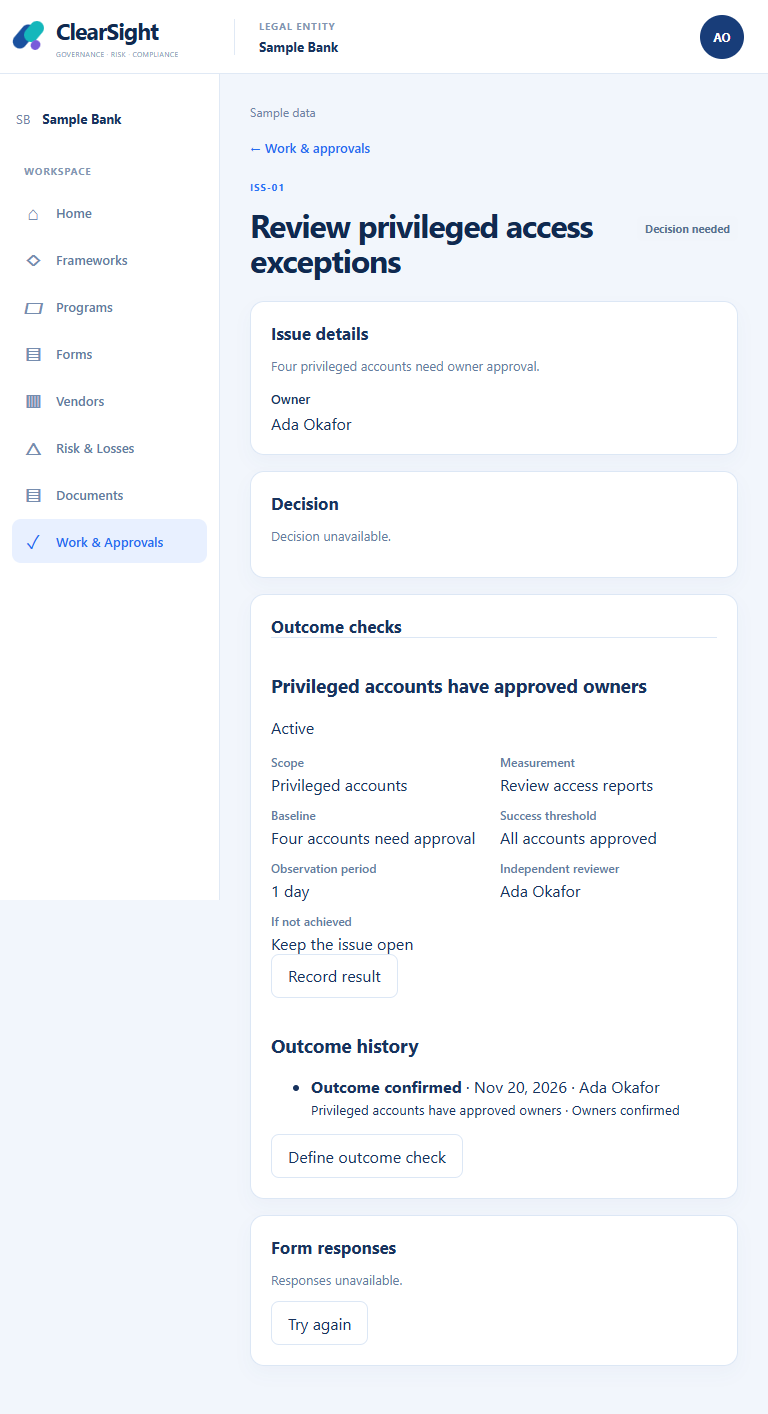
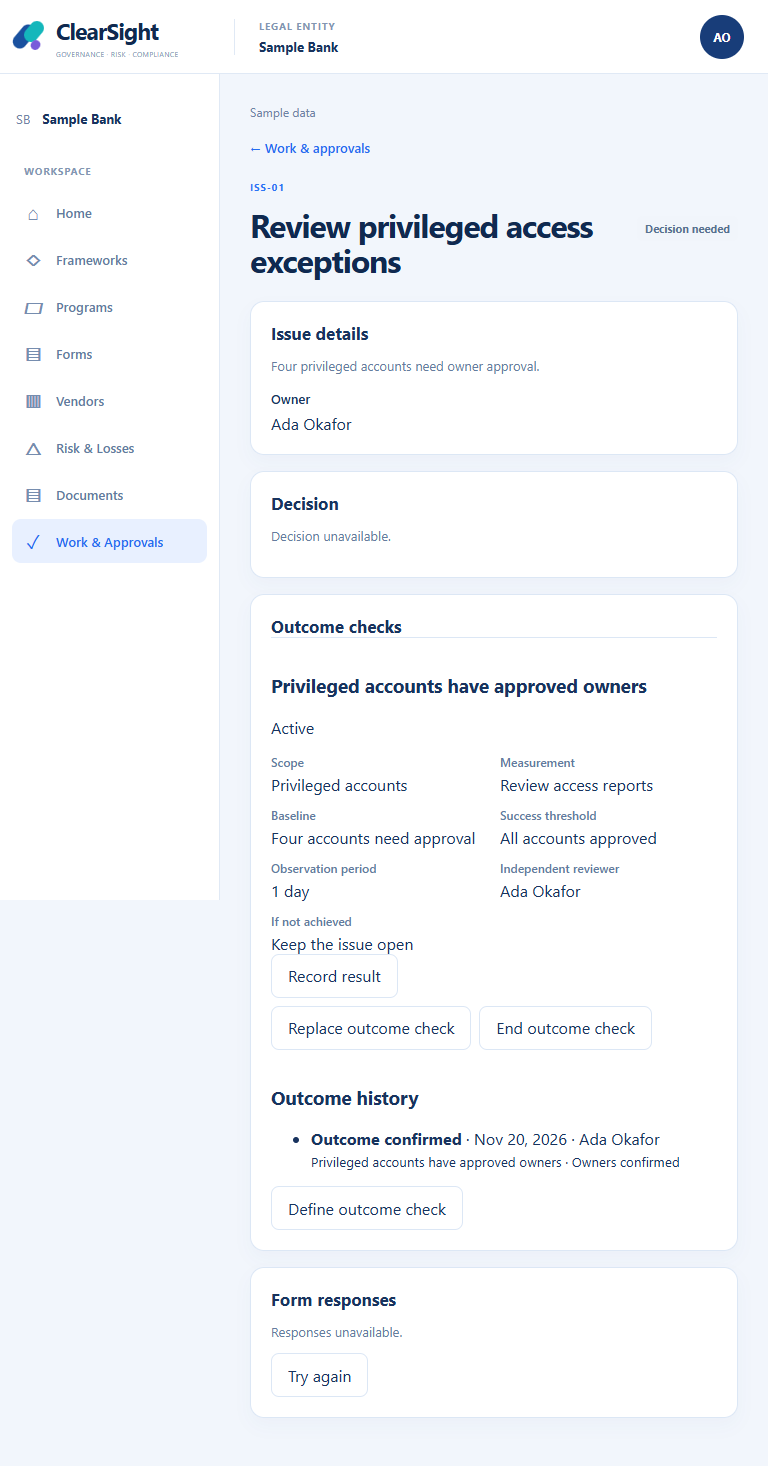
Support issue outcome check lifecycle

diff --git a/web/src/v210/MatterOutcomeLifecycle.tsx b/web/src/v210/MatterOutcomeLifecycle.tsx
@@ -1,0 +1,25 @@
+import { useEffect,useRef,useState,type FormEvent } from 'react';
+import { retireMatterOutcomeCheck,supersedeMatterOutcomeCheck } from '../matterOperationsApi';
+import { apiErrorKind } from '../http';
+import type { AuthorityPrincipal,EvidenceSource,Matter,MatterAction,VerificationContract } from '../types';
+const failureChoices=[['BLOCK_CLOSE','Keep the issue open'],['REOPEN','Reopen the issue'],['CREATE_MATTER','Create a follow-up issue'],['ESCALATE','Escalate']];
+function description(value:Record<string,unknown>|undefined,key:string){return typeof value?.[key]==='string'?String(value[key]):''}
+function sameJSON(a:unknown,b:unknown):boolean {if(a===b)return true;if(!a||!b||typeof a!=='object'||typeof b!=='object')return false;if(Array.isArray(a)||Array.isArray(b))return Array.isArray(a)&&Array.isArray(b)&&a.length===b.length&&a.every((v,i)=>sameJSON(v,b[i]));const x=a as Record<string,unknown>,y=b as Record<string,unknown>,keys=Object.keys(x);return keys.length===Object.keys(y).length&&keys.every(k=>Object.hasOwn(y,k)&&sameJSON(x[k],y[k]));}
+type Props={matter:Pick<Matter,'id'|'tenant_id'|'legal_entity_id'|'version'>;contract:VerificationContract;existingIDs:string[];canEnd:boolean;canReplace:boolean;reviewers:Pick<AuthorityPrincipal,'id'|'display_name'>[];actions:MatterAction[];sources:EvidenceSource[];onRefresh:()=>void;onAccessRevoked:()=>void};
+export function MatterOutcomeLifecycle({matter,contract,existingIDs,canEnd,canReplace,reviewers,actions,sources,onRefresh,onAccessRevoked}:Props){
+ const periodInDays=contract.observation_period_minutes % 1440 === 0;
+ const [mode,setMode]=useState<''|'end'|'replace'>(''),[reason,setReason]=useState(''),[outcome,setOutcome]=useState(contract.expected_outcome),[action,setAction]=useState(contract.action_id??''),[scope,setScope]=useState(description(contract.scope,'description')),[method,setMethod]=useState(description(contract.scope,'measurement_method')),[baseline,setBaseline]=useState(description(contract.baseline,'description')),[threshold,setThreshold]=useState(description(contract.threshold,'success_condition')),[source,setSource]=useState(contract.measurement_source_id??''),[minutes,setMinutes]=useState(String(periodInDays ? contract.observation_period_minutes / 1440 : contract.observation_period_minutes)),[reviewer,setReviewer]=useState(''),[failure,setFailure]=useState(contract.failure_response??''),[busy,setBusy]=useState(false),[unknown,setUnknown]=useState(false),[refreshFailed,setRefreshFailed]=useState(false);
+ const lock=useRef(false),mounted=useRef(true);useEffect(()=>{mounted.current=true;return()=>{mounted.current=false}},[]);
+ const activeSources=sources.filter(v=>v.status==='ACTIVE'&&Number.isSafeInteger(v.version)&&v.version>0&&v.tenant_id===matter.tenant_id&&v.legal_entity_id===matter.legal_entity_id);
+ const period=Number(minutes)*(periodInDays?1440:1), canSave=!!reason.trim()&&Number.isSafeInteger(contract.version)&&Number(contract.version)>0&&!!matter.legal_entity_id&&(mode==='end'?canEnd:mode==='replace'&&canReplace&&!!outcome.trim()&&reviewers.some(v=>v.id===reviewer)&&failureChoices.some(v=>v[0]===failure)&&Number.isSafeInteger(period)&&period>=0&&period<=525600&&(!action||actions.some(v=>v.id===action))&&(!source||activeSources.some(v=>v.id===source)));
+ async function submit(e:FormEvent){e.preventDefault();if(lock.current||busy||!canSave)return;lock.current=true;setBusy(true);const oldVersion=Number(contract.version);const input={actionID:action||undefined,expectedOutcome:outcome.trim(),scope:{...contract.scope,description:scope.trim(),measurement_method:method.trim()},baseline:{...contract.baseline,description:baseline.trim()},threshold:{...contract.threshold,success_condition:threshold.trim()},measurementSourceID:source||undefined,observationPeriodMinutes:period,reviewerCandidateID:reviewer,failureResponse:failure,rationale:reason.trim()};
+  try{const receipt=mode==='end'?await retireMatterOutcomeCheck(matter.id,contract.id,matter.version,reason.trim()):await supersedeMatterOutcomeCheck(matter.id,contract.id,matter.version,input);if(!mounted.current)return;const all=receipt.verification_contracts,prior=all?.filter(v=>v.id===contract.id)??[],added=all?.filter(v=>!existingIDs.includes(v.id))??[],replacement=added[0];
+   if(receipt.matter?.id!==matter.id||receipt.matter.tenant_id!==matter.tenant_id||receipt.matter.legal_entity_id!==matter.legal_entity_id||receipt.matter.version!==matter.version+1||prior.length!==1||prior[0]?.tenant_id!==matter.tenant_id||prior[0]?.matter_id!==matter.id||prior[0]?.status!=='RETIRED'||prior[0]?.version!==oldVersion+1||prior[0]?.expected_outcome!==contract.expected_outcome||(prior[0]?.action_id||'')!==(contract.action_id||'')||(prior[0]?.supersedes_contract_id||'')!==(contract.supersedes_contract_id||'')||(prior[0]?.measurement_source_id||'')!==(contract.measurement_source_id||'')||prior[0]?.observation_period_minutes!==contract.observation_period_minutes||(prior[0]?.authority_principal_id||'')!==(contract.authority_principal_id||'')||(prior[0]?.failure_response||'')!==(contract.failure_response||'')||!sameJSON(prior[0]?.baseline,contract.baseline)||!sameJSON(prior[0]?.scope,contract.scope)||!sameJSON(prior[0]?.threshold,contract.threshold)||(mode==='end'&&added.length!==0)||(mode==='replace'&&(added.length!==1||!replacement?.id||replacement.tenant_id!==matter.tenant_id||replacement.matter_id!==matter.id||replacement.supersedes_contract_id!==contract.id||replacement.status!=='ACTIVE'||replacement.version!==1||replacement.expected_outcome!==input.expectedOutcome||(replacement.action_id||'')!==(input.actionID||'')||(replacement.measurement_source_id||'')!==(input.measurementSourceID||'')||replacement.observation_period_minutes!==period||replacement.authority_principal_id!==reviewer||replacement.failure_response!==failure||!sameJSON(replacement.baseline,input.baseline)||!sameJSON(replacement.scope,input.scope)||!sameJSON(replacement.threshold,input.threshold))))throw new Error('Unconfirmed');
+   try{onRefresh();setMode('')}catch{setRefreshFailed(true)}
+  }catch(error){if(!mounted.current)return;if(['unauthorized','forbidden','not_found'].includes(apiErrorKind(error)))onAccessRevoked();else setUnknown(true)}finally{if(mounted.current)setBusy(false)}
+ }
+ if(refreshFailed)return <p role="alert">Outcome check saved. Refresh the issue to see it.</p>;
+ if(unknown)return <><p role="alert">Outcome check status unknown. Review the issue before trying again.</p><button type="button" onClick={onRefresh}>Review issue</button></>;
+ if(!mode)return <div className="v-outcome-lifecycle">{canReplace&&reviewers.length>0&&<button type="button" onClick={()=>setMode('replace')}>Replace outcome check</button>}{canEnd&&<button type="button" onClick={()=>setMode('end')}>End outcome check</button>}</div>;
+ return <form className="v-intake" onSubmit={(e)=>void submit(e)}><h4>{mode==='end'?'End outcome check':'Replace outcome check'}</h4>{mode==='end'?<p>Ending this check removes it from the issue’s outstanding outcome checks.</p>:<><p>The current check ends and a new check takes its place.</p><label>Action<select value={action} onChange={e=>setAction(e.target.value)}><option value="">None</option>{action&&!actions.some(v=>v.id===action)&&<option value={action} disabled>Action unavailable</option>}{actions.map(v=><option key={v.id} value={v.id}>{v.title}</option>)}</select></label>{action&&!actions.some(v=>v.id===action)&&<p>Choose an available action or None.</p>}<label>Expected outcome<input required value={outcome} onChange={e=>setOutcome(e.target.value)}/></label><label>Scope covered<input value={scope} onChange={e=>setScope(e.target.value)}/></label><label>How the outcome will be measured<textarea value={method} onChange={e=>setMethod(e.target.value)}/></label><label>Current baseline<input value={baseline} onChange={e=>setBaseline(e.target.value)}/></label><label>Success threshold<input value={threshold} onChange={e=>setThreshold(e.target.value)}/></label><label>Measurement source<select value={source} onChange={e=>setSource(e.target.value)}><option value="">Manual</option>{source&&!activeSources.some(v=>v.id===source)&&<option value={source} disabled>Source unavailable</option>}{activeSources.map(v=><option key={v.id} value={v.id}>{v.name}</option>)}</select></label>{source&&!activeSources.some(v=>v.id===source)&&<p>Choose an available source or manual measurement.</p>}<label>Observation period ({periodInDays?"days":"minutes"})<input type="number" min="0" max={periodInDays?365:525600} step="1" required value={minutes} onChange={e=>setMinutes(e.target.value)}/></label><label>Independent reviewer<select required value={reviewer} onChange={e=>setReviewer(e.target.value)}><option value="">Select reviewer</option>{reviewers.map(v=><option key={v.id} value={v.id}>{v.display_name}</option>)}</select></label><label>If the outcome is not achieved<select required value={failure} onChange={e=>setFailure(e.target.value)}><option value="">Select response</option>{failureChoices.map(([id,label])=><option key={id} value={id}>{label}</option>)}</select></label></>}<label>{mode==='end'?'Reason for ending':'Reason for replacing'}<textarea required value={reason} onChange={e=>setReason(e.target.value)}/></label><div className="v-intake-actions"><button type="button" disabled={busy} onClick={()=>setMode('')}>Cancel</button><button className="v-primary" disabled={busy||!canSave}>{busy?'Saving…':mode==='end'?'Confirm end':'Confirm replacement'}</button></div></form>;
+}

diff --git a/web/src/v210/MatterOutcomes.tsx b/web/src/v210/MatterOutcomes.tsx
@@ -3,6 +3,7 @@ import { loadEvidenceSources } from "../api";
 import { defineMatterOutcomeCheck, loadMatterOperations, type MatterOperations } from "../matterOperationsApi";
 import { apiErrorKind } from "../http";
 import type { EvidenceSource, MatterAggregate, VerificationContract } from "../types";
+import { MatterOutcomeLifecycle } from "./MatterOutcomeLifecycle";
 import { MatterOutcomeResult } from "./MatterOutcomeResult";
 import "./matter-outcomes.css";
 
@@ -34,7 +35,7 @@ export function MatterOutcomes({aggregate,onRefresh,onAccessRevoked}:{aggregate:
  function reviewIssue() { try { onRefresh(); } catch { setError("Issue unavailable. Try again."); } }
  const contracts=aggregate.verification_contracts;const results=aggregate.verification_results;
  if(aggregate.outcome_data_complete === false || !Array.isArray(contracts) || !Array.isArray(results) || contracts.some((value)=>!value?.id || !value.expected_outcome) || new Set(contracts.map((value)=>value.id)).size!==contracts.length || results.some((value)=>!value?.id || !contracts.some((contract)=>contract.id===value.contract_id)) || new Set(results.map((value)=>value.id)).size!==results.length) return <section className="v-panel v-matter-outcomes"><h2>Outcome checks</h2><p role="alert">Outcome checks unavailable.</p></section>;
- return <section className="v-panel v-matter-outcomes"><h2>Outcome checks</h2>{contracts.length===0?<p>No outcome checks recorded.</p>:contracts.map((contract)=><article key={contract.id}><h3>{contract.expected_outcome}</h3><p>{contract.status==="ACTIVE"?"Active":contract.status==="RETIRED"?"Ended":"Status unavailable"}</p><dl><div><dt>Scope</dt><dd>{text(contract.scope,"description","population")}</dd></div><div><dt>Measurement</dt><dd>{typeof contract.scope?.measurement_method === "string" && contract.scope.measurement_method.trim() ? contract.scope.measurement_method : "Not recorded"}</dd></div><div><dt>Baseline</dt><dd>{text(contract.baseline,"description","current_state","summary")}</dd></div><div><dt>Success threshold</dt><dd>{text(contract.threshold,"success_condition","description")}</dd></div><div><dt>Observation period</dt><dd>{period(contract.observation_period_minutes)}</dd></div><div><dt>Independent reviewer</dt><dd>{reviewerName("OUTCOME_CHECK",contract.id)}</dd></div>{contract.measurement_source_id && <div><dt>Measurement source</dt><dd>{sources.find((item)=>item.id===contract.measurement_source_id)?.name || "Source name unavailable"}</dd></div>}<div><dt>If not achieved</dt><dd>{failures.find((item)=>item.id===contract.failure_response)?.label || "Not recorded"}</dd></div></dl>{contract.status==="ACTIVE" && aggregate.scope?.principal_id && operations?.authority_available && operations.operations?.some((op)=>op.command==="matter.outcome.record" && op.subresource_id===contract.id && op.can_act===true) && <MatterOutcomeResult key={`${matter.tenant_id}:${matter.legal_entity_id}:${matter.id}:${aggregate.scope.principal_id}:${matter.version}:${contract.id}`} matter={matter} contract={contract} principalID={aggregate.scope.principal_id} existingResultIDs={results.map((entry)=>entry.id)} onRefresh={onRefresh} onAccessRevoked={()=>onAccessRevoked?.()} />}</article>)}
+ return <section className="v-panel v-matter-outcomes"><h2>Outcome checks</h2>{contracts.length===0?<p>No outcome checks recorded.</p>:contracts.map((contract)=><article key={contract.id}><h3>{contract.expected_outcome}</h3><p>{contract.status==="ACTIVE"?"Active":contract.status==="RETIRED"?"Ended":"Status unavailable"}</p><dl><div><dt>Scope</dt><dd>{text(contract.scope,"description","population")}</dd></div><div><dt>Measurement</dt><dd>{typeof contract.scope?.measurement_method === "string" && contract.scope.measurement_method.trim() ? contract.scope.measurement_method : "Not recorded"}</dd></div><div><dt>Baseline</dt><dd>{text(contract.baseline,"description","current_state","summary")}</dd></div><div><dt>Success threshold</dt><dd>{text(contract.threshold,"success_condition","description")}</dd></div><div><dt>Observation period</dt><dd>{period(contract.observation_period_minutes)}</dd></div><div><dt>Independent reviewer</dt><dd>{reviewerName("OUTCOME_CHECK",contract.id)}</dd></div>{contract.measurement_source_id && <div><dt>Measurement source</dt><dd>{sources.find((item)=>item.id===contract.measurement_source_id)?.name || "Source name unavailable"}</dd></div>}<div><dt>If not achieved</dt><dd>{failures.find((item)=>item.id===contract.failure_response)?.label || "Not recorded"}</dd></div></dl>{contract.status==="ACTIVE" && aggregate.scope?.principal_id && operations?.authority_available && operations.operations?.some((op)=>op.command==="matter.outcome.record" && op.subresource_id===contract.id && op.can_act===true) && <MatterOutcomeResult key={`${matter.tenant_id}:${matter.legal_entity_id}:${matter.id}:${aggregate.scope.principal_id}:${matter.version}:${contract.id}`} matter={matter} contract={contract} principalID={aggregate.scope.principal_id} existingResultIDs={results.map((entry)=>entry.id)} onRefresh={onRefresh} onAccessRevoked={()=>onAccessRevoked?.()} />}{contract.status==="ACTIVE" && Number.isSafeInteger(contract.version) && Number(contract.version)>0 && aggregate.scope?.principal_id && operations?.authority_available && <MatterOutcomeLifecycle key={`lifecycle:${matter.tenant_id}:${matter.legal_entity_id}:${matter.id}:${aggregate.scope.principal_id}:${matter.version}:${contract.id}`} matter={matter} contract={contract} existingIDs={contracts.map((entry)=>entry.id)} canEnd={operations.operations?.some((op)=>op.command==="matter.outcome.retire" && op.subresource_id===contract.id && op.can_act===true) ?? false} canReplace={operations.operations?.some((op)=>op.command==="matter.outcome.supersede" && op.subresource_id===contract.id && op.can_act===true) ?? false} reviewers={operations.operations?.find((op)=>op.command==="matter.outcome.supersede" && op.subresource_id===contract.id && op.can_act===true)?.candidates?.filter((entry)=>entry.id && entry.display_name) ?? []} actions={aggregate.actions??[]} sources={sources} onRefresh={onRefresh} onAccessRevoked={()=>onAccessRevoked?.()} />}</article>)}
  {results.length>0 && <section><h3>Outcome history</h3><ul>{results.slice(0,limit).map((value)=><li key={value.id}><strong>{result(value.result)}</strong> · {recorded(value.observed_at)} · {reviewerName("OUTCOME_RESULT",value.id)}<small>{contracts.find((contract)=>contract.id===value.contract_id)?.expected_outcome}{value.rationale ? ` · ${value.rationale}` : ""}</small></li>)}</ul>{results.length>limit && <button type="button" onClick={()=>setLimit((value)=>value+20)}>Show more results</button>}</section>}
  {refreshFailed ? <p role="alert">Outcome check saved. Refresh the issue to see it.</p> : uncertain ? <><p role="alert">Outcome check status unknown. Review the issue before trying again.</p><button type="button" disabled={busy} onClick={reviewIssue}>Review issue</button>{error && <p role="alert">{error}</p>}</> : !open && candidates.length>0 ? <button type="button" onClick={()=>setOpen(true)}>Define outcome check</button> : null}
  {open && !uncertain && !refreshFailed && <form className="v-intake" onSubmit={(event)=>void submit(event)}><h3>Define outcome check</h3><label>Action<select value={action} onChange={(e)=>setAction(e.target.value)}><option value="">None</option>{(aggregate.actions??[]).map((item)=><option key={item.id} value={item.id}>{item.title}</option>)}</select></label><label>Expected outcome<input required value={expected} onChange={(e)=>setExpected(e.target.value)}/></label><label>Scope covered<input value={scope} onChange={(e)=>setScope(e.target.value)}/></label><label>How the outcome will be measured<textarea value={method} onChange={(e)=>setMethod(e.target.value)}/></label><label>Current baseline<input value={baseline} onChange={(e)=>setBaseline(e.target.value)}/></label><label>Success threshold<input value={threshold} onChange={(e)=>setThreshold(e.target.value)}/></label><label>Measurement source<select value={source} onChange={(e)=>setSource(e.target.value)}><option value="">Manual</option>{activeSources.map((item)=><option key={item.id} value={item.id}>{item.name}</option>)}</select></label>{sourceError && <p>Measurement sources unavailable. Manual measurement remains available.</p>}<label>Observation period (days)<input type="number" min="0" max="365" step="1" required value={days} onChange={(e)=>setDays(e.target.value)}/></label><label>Independent reviewer<select required value={reviewer} onChange={(e)=>setReviewer(e.target.value)}><option value="">Select reviewer</option>{candidates.map((item)=><option key={item.id} value={item.id}>{item.display_name}</option>)}</select></label><label>If the outcome is not achieved<select required value={failure} onChange={(e)=>setFailure(e.target.value)}><option value="">Select response</option>{failures.map((item)=><option key={item.id} value={item.id}>{item.label}</option>)}</select></label>{error && <p role="alert">{error}</p>}<div className="v-intake-actions"><button type="button" disabled={busy} onClick={()=>setOpen(false)}>Cancel</button><button className="v-primary" disabled={busy}>{busy?"Saving…":"Save outcome check"}</button></div></form>}

diff --git a/web/src/v210/MatterOutcomeLifecycle.test.tsx b/web/src/v210/MatterOutcomeLifecycle.test.tsx
@@ -1,0 +1,19 @@
+import { fireEvent,render,screen,waitFor } from '@testing-library/react';
+import { expect,it,vi } from 'vitest';
+import { ApiError } from '../http';
+import { MatterOutcomeLifecycle } from './MatterOutcomeLifecycle';
+const api=vi.hoisted(()=>({retireMatterOutcomeCheck:vi.fn(),supersedeMatterOutcomeCheck:vi.fn()}));vi.mock('../matterOperationsApi',()=>api);
+const matter={id:'m1',tenant_id:'bank',legal_entity_id:'entity',version:4};const contract={id:'c1',tenant_id:'bank',matter_id:'m1',expected_outcome:'Restore service',status:'ACTIVE',version:2,observation_period_minutes:1440,failure_response:'BLOCK_CLOSE',baseline:{description:'Outage'},scope:{description:'Customers',measurement_method:'Review report'},threshold:{success_condition:'All available'}};
+const props={matter,contract,existingIDs:['c1'],canEnd:true,reviewers:[{id:'reviewer',display_name:'Ada Okafor'}],canReplace:true,actions:[],sources:[],onRefresh:vi.fn(),onAccessRevoked:vi.fn()};
+it('ends the exact authorized check after a reason and confirms its version',async()=>{api.retireMatterOutcomeCheck.mockResolvedValue({matter:{...matter,version:5},verification_contracts:[{...contract,status:'RETIRED',version:3}]});const refresh=vi.fn();render(<MatterOutcomeLifecycle {...props} onRefresh={refresh}/>);fireEvent.click(screen.getByRole('button',{name:'End outcome check'}));fireEvent.change(screen.getByLabelText('Reason for ending'),{target:{value:'Action cancelled'}});fireEvent.click(screen.getByRole('button',{name:'Confirm end'}));await waitFor(()=>expect(refresh).toHaveBeenCalled());expect(api.retireMatterOutcomeCheck).toHaveBeenCalledWith('m1','c1',4,'Action cancelled');});
+it('leaves an unmatched end receipt unknown and blocks another submission',async()=>{api.retireMatterOutcomeCheck.mockResolvedValue({matter:{...matter,version:5},verification_contracts:[{...contract,status:'ACTIVE',version:3}]});render(<MatterOutcomeLifecycle {...props}/>);fireEvent.click(screen.getByRole('button',{name:'End outcome check'}));fireEvent.change(screen.getByLabelText('Reason for ending'),{target:{value:'Action cancelled'}});fireEvent.click(screen.getByRole('button',{name:'Confirm end'}));expect(await screen.findByText(/Outcome check status unknown/)).toBeTruthy();expect(screen.queryByRole('button',{name:'Confirm end'})).toBeNull();});
+
+it('replaces a check with the selected eligible reviewer and preserves unedited terms',async()=>{const next={...contract,id:'c2',supersedes_contract_id:'c1',version:1,expected_outcome:'Service stable',authority_principal_id:'reviewer'};api.supersedeMatterOutcomeCheck.mockResolvedValue({matter:{...matter,version:5},verification_contracts:[{...contract,status:'RETIRED',version:3},next]});const refresh=vi.fn();render(<MatterOutcomeLifecycle {...props} onRefresh={refresh}/>);fireEvent.click(screen.getByRole('button',{name:'Replace outcome check'}));fireEvent.change(screen.getByLabelText('Expected outcome'),{target:{value:'Service stable'}});fireEvent.change(screen.getByLabelText('Independent reviewer'),{target:{value:'reviewer'}});fireEvent.change(screen.getByLabelText('Reason for replacing'),{target:{value:'Scope changed'}});fireEvent.click(screen.getByRole('button',{name:'Confirm replacement'}));await waitFor(()=>expect(refresh).toHaveBeenCalled());expect(api.supersedeMatterOutcomeCheck).toHaveBeenCalledWith('m1','c1',4,expect.objectContaining({expectedOutcome:'Service stable',reviewerCandidateID:'reviewer',rationale:'Scope changed',baseline:{description:'Outage'}}));});
+it('does not confirm a replacement without the expected lineage',async()=>{api.supersedeMatterOutcomeCheck.mockResolvedValue({matter:{...matter,version:5},verification_contracts:[{...contract,status:'RETIRED',version:3},{...contract,id:'c2',version:1,supersedes_contract_id:'different',authority_principal_id:'reviewer'}]});const refresh=vi.fn();render(<MatterOutcomeLifecycle {...props} onRefresh={refresh}/>);fireEvent.click(screen.getByRole('button',{name:'Replace outcome check'}));fireEvent.change(screen.getByLabelText('Independent reviewer'),{target:{value:'reviewer'}});fireEvent.change(screen.getByLabelText('Reason for replacing'),{target:{value:'Scope changed'}});fireEvent.click(screen.getByRole('button',{name:'Confirm replacement'}));expect(await screen.findByText(/Outcome check status unknown/)).toBeTruthy();expect(refresh).not.toHaveBeenCalled();});
+
+it('clears the issue when lifecycle authority is revoked',async()=>{api.retireMatterOutcomeCheck.mockRejectedValue(new ApiError(403,'Denied'));const revoked=vi.fn();render(<MatterOutcomeLifecycle {...props} onAccessRevoked={revoked}/>);fireEvent.click(screen.getByRole('button',{name:'End outcome check'}));fireEvent.change(screen.getByLabelText('Reason for ending'),{target:{value:'Action cancelled'}});fireEvent.click(screen.getByRole('button',{name:'Confirm end'}));await waitFor(()=>expect(revoked).toHaveBeenCalled());});
+it('cannot replace with an unavailable measurement source',()=>{render(<MatterOutcomeLifecycle {...props} contract={{...contract,measurement_source_id:'lost-source'}}/>);fireEvent.click(screen.getByRole('button',{name:'Replace outcome check'}));fireEvent.change(screen.getByLabelText('Independent reviewer'),{target:{value:'reviewer'}});fireEvent.change(screen.getByLabelText('Reason for replacing'),{target:{value:'Scope changed'}});expect(screen.getByText('Choose an available source or manual measurement.')).toBeTruthy();expect((screen.getByRole('button',{name:'Confirm replacement'}) as HTMLButtonElement).disabled).toBe(true);});
+
+it('does not confirm ending if the retired check no longer preserves its terms',async()=>{api.retireMatterOutcomeCheck.mockResolvedValue({matter:{...matter,version:5},verification_contracts:[{...contract,expected_outcome:'Altered outcome',status:'RETIRED',version:3}]});const refresh=vi.fn();render(<MatterOutcomeLifecycle {...props} onRefresh={refresh}/>);fireEvent.click(screen.getByRole('button',{name:'End outcome check'}));fireEvent.change(screen.getByLabelText('Reason for ending'),{target:{value:'Action cancelled'}});fireEvent.click(screen.getByRole('button',{name:'Confirm end'}));expect(await screen.findByText(/Outcome check status unknown/)).toBeTruthy();expect(refresh).not.toHaveBeenCalled();});
+
+it('requires an explicit action choice when the previous action is unavailable',()=>{render(<MatterOutcomeLifecycle {...props} contract={{...contract,action_id:'lost-action'}}/>);fireEvent.click(screen.getByRole('button',{name:'Replace outcome check'}));fireEvent.change(screen.getByLabelText('Independent reviewer'),{target:{value:'reviewer'}});fireEvent.change(screen.getByLabelText('Reason for replacing'),{target:{value:'Scope changed'}});expect(screen.getByText('Choose an available action or None.')).toBeTruthy();expect((screen.getByRole('button',{name:'Confirm replacement'}) as HTMLButtonElement).disabled).toBe(true);});

diff --git a/web/src/v210/MatterOutcomes.test.tsx b/web/src/v210/MatterOutcomes.test.tsx
@@ -4,7 +4,7 @@ import { ApiError } from "../http";
 import { MatterOutcomes } from "./MatterOutcomes";
 import type { MatterAggregate } from "../types";
 const api=vi.hoisted(()=>({loadEvidenceSources:vi.fn(),loadMatter:vi.fn()})); const ops=vi.hoisted(()=>({loadMatterOperations:vi.fn(),defineMatterOutcomeCheck:vi.fn(),recordMatterOutcomeResult:vi.fn()}));vi.mock("../api",()=>api);vi.mock("../matterOperationsApi",()=>ops);
-const aggregate={scope:{tenant_id:"bank",legal_entity_id:"entity",principal_id:"actor",record_tenant_id:"bank",record_legal_entity_id:"entity"},matter:{id:"m1",tenant_id:"bank",legal_entity_id:"entity",version:4,title:"Restore service"},actions:[{id:"a1",title:"Restore posting"}],verification_contracts:[{id:"c1",expected_outcome:"Posting remains available",authority_principal_id:"old-reviewer",status:"ACTIVE",observation_period_minutes:1440,failure_response:"BLOCK_CLOSE",scope:{description:"Retail accounts",measurement_method:"Review daily reports"},baseline:{description:"Posting unavailable"},threshold:{success_condition:"99.9% successful"}}],verification_results:[{id:"r1",contract_id:"c1",result:"PASS",reviewer_principal_id:"old-reviewer",observed_at:"2026-11-20T10:00:00Z",rationale:"Confirmed"}]} as unknown as MatterAggregate;
+const aggregate={scope:{tenant_id:"bank",legal_entity_id:"entity",principal_id:"actor",record_tenant_id:"bank",record_legal_entity_id:"entity"},matter:{id:"m1",tenant_id:"bank",legal_entity_id:"entity",version:4,title:"Restore service"},actions:[{id:"a1",title:"Restore posting"}],verification_contracts:[{id:"c1",expected_outcome:"Posting remains available",authority_principal_id:"old-reviewer",status:"ACTIVE",version:1,observation_period_minutes:1440,failure_response:"BLOCK_CLOSE",scope:{description:"Retail accounts",measurement_method:"Review daily reports"},baseline:{description:"Posting unavailable"},threshold:{success_condition:"99.9% successful"}}],verification_results:[{id:"r1",contract_id:"c1",result:"PASS",reviewer_principal_id:"old-reviewer",observed_at:"2026-11-20T10:00:00Z",rationale:"Confirmed"}]} as unknown as MatterAggregate;
 const route={matter_id:"m1",matter_version:4,authority_available:true,operations:[{command:"matter.outcome.define",can_act:true,candidates:[{id:"reviewer",display_name:"Ada Okafor"}]}],responsible_parties:[{scope:"OUTCOME_CHECK",subresource_id:"c1",display_name:"Original reviewer"},{scope:"OUTCOME_RESULT",subresource_id:"r1",display_name:"Original reviewer"}]};
 beforeEach(()=>{vi.resetAllMocks();ops.loadMatterOperations.mockResolvedValue(route);api.loadEvidenceSources.mockResolvedValue([{id:"s1",tenant_id:"bank",legal_entity_id:"entity",name:"Daily report",status:"ACTIVE",version:2},{id:"other",tenant_id:"bank",legal_entity_id:"different",name:"Other report",status:"ACTIVE",version:1}]);});
 it("shows recorded outcome terms and the historical reviewer without exposing IDs",async()=>{render(<MatterOutcomes aggregate={aggregate} onRefresh={vi.fn()}/>);expect(await screen.findByText("Original reviewer")).toBeTruthy(); expect(screen.getByText("Retail accounts")).toBeTruthy();expect(screen.getByText("Review daily reports")).toBeTruthy(); expect(screen.getByText("99.9% successful")).toBeTruthy();expect(screen.getByText(/Outcome confirmed/)).toBeTruthy(); expect(screen.queryByText("old-reviewer")).toBeNull();});
@@ -22,3 +22,5 @@ it("clears the issue when its operation read loses access",async()=>{ops.loadMat
 it("offers result recording only for the authorized current outcome check",async()=>{ops.loadMatterOperations.mockResolvedValue({...route,operations:[...route.operations,{command:'matter.outcome.record',subresource_id:'c1',can_act:true},{command:'matter.outcome.record',subresource_id:'other',can_act:true}]});render(<MatterOutcomes aggregate={aggregate} onRefresh={vi.fn()}/>);expect(await screen.findByRole('button',{name:'Record result'})).toBeTruthy();expect(screen.getAllByRole('button',{name:'Record result'})).toHaveLength(1);});
 
 it("discards a result receipt after the issue version changes",async()=>{let resolve!:(value:unknown)=>void;ops.recordMatterOutcomeResult.mockImplementation(()=>new Promise((done)=>{resolve=done}));ops.loadMatterOperations.mockResolvedValue({...route,operations:[{command:"matter.outcome.record",subresource_id:"c1",can_act:true}]});const refresh=vi.fn();const view=render(<MatterOutcomes aggregate={aggregate} onRefresh={refresh}/>);fireEvent.click(await screen.findByRole("button",{name:"Record result"}));fireEvent.change(screen.getByLabelText("Outcome"),{target:{value:"PASS"}});fireEvent.change(screen.getByLabelText("Review notes"),{target:{value:"Reviewed"}});fireEvent.click(screen.getByRole("button",{name:"Save result"}));view.rerender(<MatterOutcomes aggregate={{...aggregate,matter:{...aggregate.matter,version:5}}} onRefresh={refresh}/>);resolve({matter:{...aggregate.matter,version:5},verification_results:[{id:"r2",tenant_id:"bank",matter_id:"m1",contract_id:"c1",result:"PASS",rationale:"Reviewed",reviewer_principal_id:"actor"}]});await Promise.resolve();expect(refresh).not.toHaveBeenCalled();});
+
+it('offers ending and replacement only for matching authorized operations',async()=>{ops.loadMatterOperations.mockResolvedValue({...route,operations:[{command:'matter.outcome.retire',subresource_id:'c1',can_act:true},{command:'matter.outcome.supersede',subresource_id:'c1',can_act:true,candidates:[{id:'reviewer',display_name:'Ada Okafor'}]},{command:'matter.outcome.retire',subresource_id:'other',can_act:true}]});render(<MatterOutcomes aggregate={aggregate} onRefresh={vi.fn()}/>);expect(await screen.findByRole('button',{name:'End outcome check'})).toBeTruthy();expect(screen.getByRole('button',{name:'Replace outcome check'})).toBeTruthy();expect(screen.getAllByRole('button',{name:'End outcome check'})).toHaveLength(1);});

diff --git a/web/src/v210/matter-outcomes.css b/web/src/v210/matter-outcomes.css
@@ -6,3 +6,5 @@
 .v-matter-outcomes li small { display: block; margin-top: 4px; }
 .v-matter-outcomes article > button { min-height: var(--v-button-height); padding: 0 16px; border: 1px solid var(--v-button-secondary-border); border-radius: var(--v-button-radius); background: var(--v-button-secondary-background); color: var(--v-button-secondary-text); }
 .v-matter-outcomes .v-intake-actions button:disabled { opacity: .55; cursor: not-allowed; }
+.v-outcome-lifecycle { display: flex; flex-wrap: wrap; gap: 8px; margin-top: 8px; }
+.v-outcome-lifecycle button { min-height: var(--v-button-height); padding: 0 16px; border: 1px solid var(--v-button-secondary-border); border-radius: var(--v-button-radius); background: var(--v-button-secondary-background); color: var(--v-button-secondary-text); }

diff --git a/docs/design/2026-11-22-v215-matter-outcomes.md b/docs/design/2026-11-22-v215-matter-outcomes.md
@@ -6,8 +6,12 @@ Definition is offered only for a matching issue version and authorized operation
 
 Synthetic screenshots in `docs/evidence/2026-11-22-v215-matter-outcomes/` show read, definition and uncertain-result states at 1440, 768 and 390 pixels. An initial mobile inspection identified history text running together; the supporting line was separated and the captures regenerated. Full-page captures include the fixed shell at the browser scroll position and are not production authorization evidence. All widths passed the script's horizontal overflow check. The existing `docs/evidence/2026-11-21-matter-work/` captures provide the preceding issue-work baseline.
 
-This is a partial workflow. Replacing or ending a check is not yet implemented. The previous MatterOutcomePanel suite remains in place pending equivalent coverage. Existing aggregate reads load the full history; the client progressively displays it, but this is not server pagination. No production end-to-end or whole-screen acceptance is claimed.
+This is a partial workflow. Replacing and ending a check require current authorized reviewer operations. The previous MatterOutcomePanel suite remains in place pending equivalent coverage. Existing aggregate reads load the full history; the client progressively displays it, but this is not server pagination. No production end-to-end or whole-screen acceptance is claimed.
 
 The authorized reviewer may record a result for an active check. A failed result states the recorded failure response before submission; the existing backend applies any resulting issue changes atomically. A returned result must match the issue, check, actor and review notes. If the result is uncertain, the reviewer must inspect the issue before another attempt. The response has no idempotency receipt, so inspection cannot prove that a particular request committed. Result recording still needs live end-to-end and accessibility review.
 
 The retained outcome evidence script also captures an unavailable failure consequence at each width and checks that Save result is disabled. The disabled style was adjusted after visual inspection.
+
+Authorized reviewers can replace or end an active check with a reason. Replacement retains stored fields outside the editable terms and links the new check to its retired predecessor. Current source and reviewer eligibility are required; uncertain commands require issue review and do not infer success. Synthetic replacement, ending and uncertain-end states are retained at 1440, 768 and 390 pixels. Existing server history is preserved. Document attachments, live end-to-end execution, and the legacy suite remain outstanding.
+
+Replacement also retains an unavailable prior action until the reviewer explicitly selects an available action or None; the evidence script checks the disabled state at each width.
